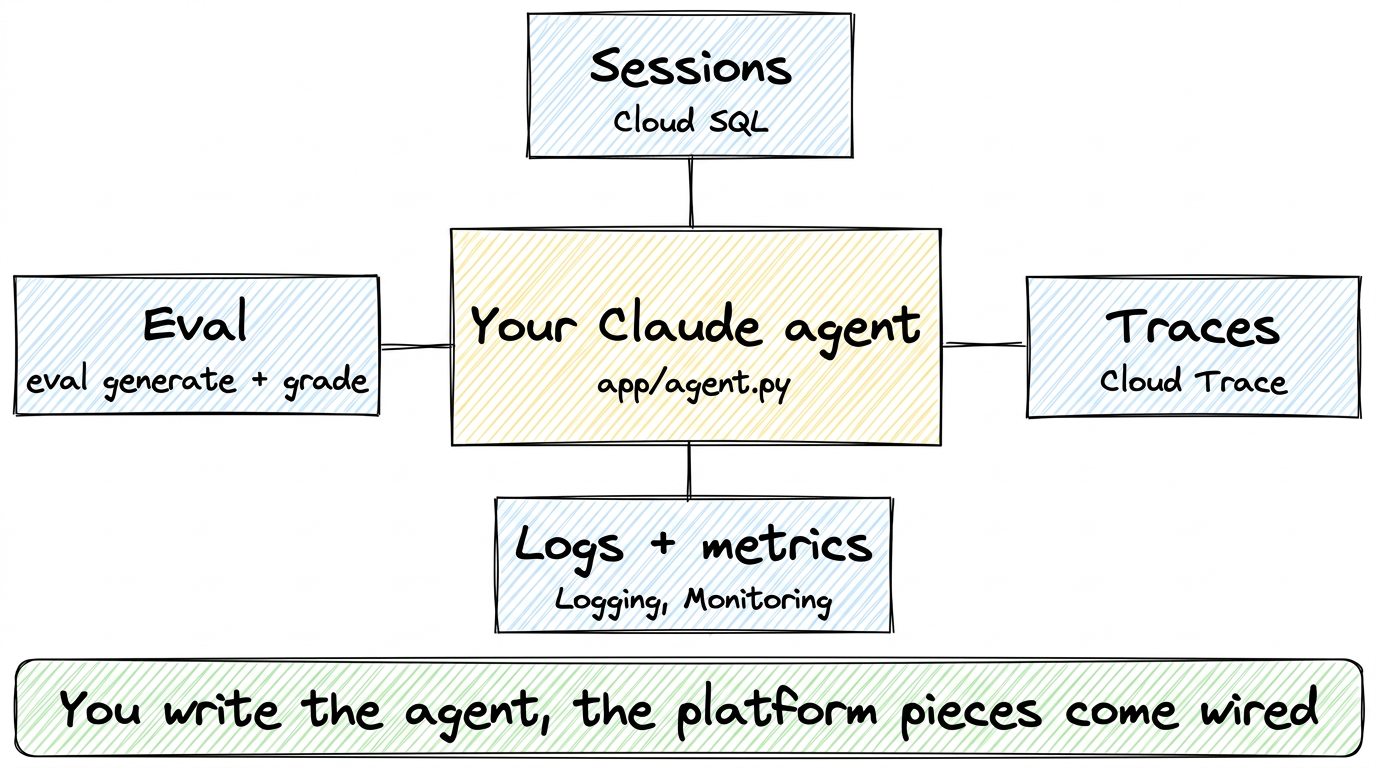
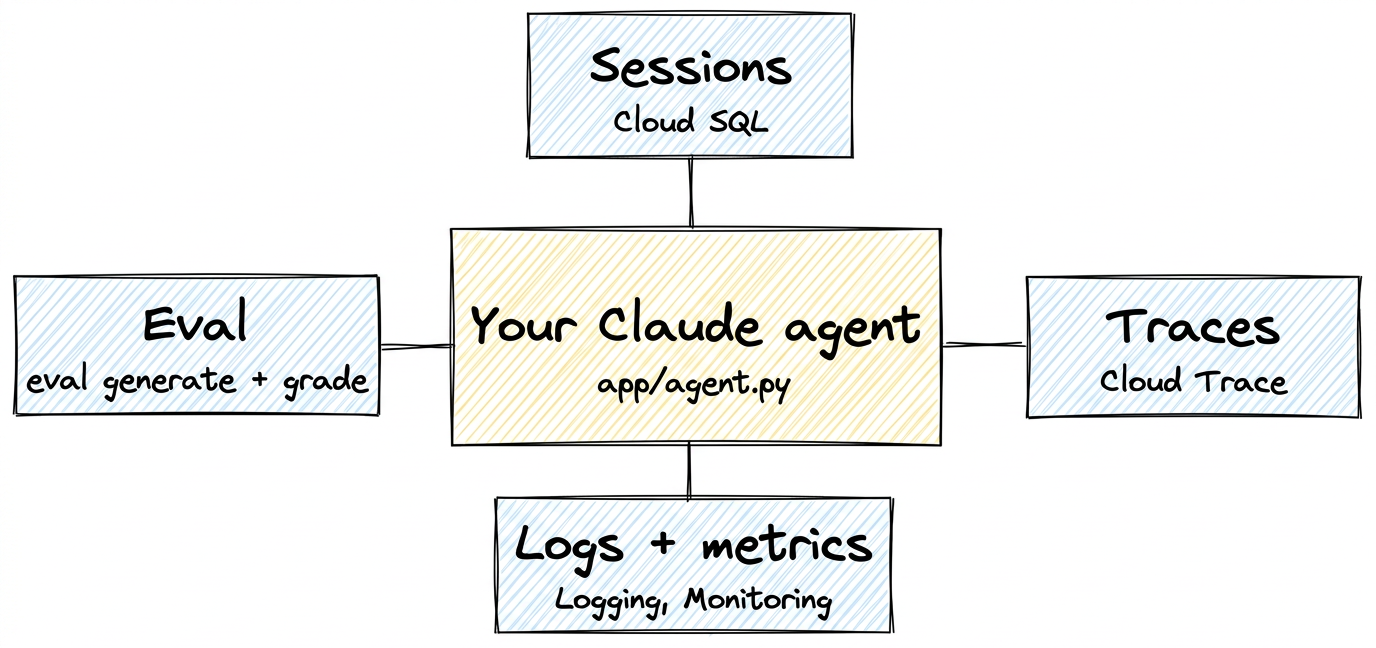
Add post: Take a Claude Agent SDK agent from install to deploy with Agents CLI

Changed region(s): [[0.0, 0.2778, 1.0, 1.0], [0.375, 0.0, 0.625, 0.2469]]

diff --git a/src/content/blog/2026-11-09-claude-agent-sdk/index.md b/src/content/blog/2026-11-09-claude-agent-sdk/index.md
@@ -10,14 +10,14 @@ sources:
 topics:
   - agents-cli v1.13.0 claude agent sdk extension
 hero: ./images/install-to-deploy.png
-hero_alt: "A hand-drawn row of boxes, Install (uvx google-agents-cli setup), Create (Claude template), Run (Claude on Gemini platform), Eval (same eval commands) and Deploy (Cloud Run, A2A), above a banner that reads 'Same commands as ADK, from install to deploy'."
+hero_alt: "A hand-drawn row of boxes, Install (uvx google-agents-cli setup), Create (Claude template), Run (Claude on Gemini platform), Eval (same eval commands) and Deploy (Cloud Run, A2A)."
 ---
 
 A Claude Agent SDK agent is a few lines of Python. Running it for real users takes more than the agent: somewhere to store each conversation so it isn't lost when the server restarts, traces that show what the agent did at each step when something goes wrong, evals (tests for agent answers) to run before each change, and a secure deploy. That's usually the part teams build by hand.
 
 [Agents CLI](https://github.com/google/agents-cli) already handles these for agents built on the Agent Development Kit (ADK). Since v1.12.0, a first-party extension does the same for Claude Agent SDK agents: you keep writing a `ClaudeAgentOptions`, and you get the same create, run, eval, and deploy commands as an ADK agent. We took one agent from install to a validated deploy on v1.13.0.
 
-![The Claude agent in the middle, connected to Sessions (Cloud SQL), Traces (Cloud Trace), Logs and metrics (Logging, Monitoring) and Eval (eval generate and grade), above a banner that reads "You write the agent, the platform pieces come wired".](./images/built-in.png)
+![The Claude agent in the middle, connected to Sessions (Cloud SQL), Traces (Cloud Trace), Logs and metrics (Logging, Monitoring) and Eval (eval generate and grade).](./images/built-in.png)
 
 Figure 1. You write `app/agent.py`, and the template wires in sessions, traces, logs, metrics, and eval.
 
@@ -29,17 +29,25 @@ One command installs Agents CLI and its skills for your coding agent:
 uvx google-agents-cli setup
 ```
 
-Then create a project from the Claude template, with Cloud Run as the target and Cloud SQL for sessions, and send it a prompt. `run` calls Claude in process through the SDK:
+Then create a project from the Claude template, with Cloud Run as the target and Cloud SQL for sessions, and send it a prompt. `run` calls Claude in process through the SDK, and the reply ends with a session ID you can resume:
 
-```bash
-agents-cli create claude-agent --agent google/agents-cli/extensions/claude/template@v1.13.0 -d cloud_run --session-type cloud_sql -y
-cd claude-agent && agents-cli install
-agents-cli run "what's the weather in San Francisco?"
+```console title="Create and run a Claude Agent SDK project" {10,14}
+$ agents-cli create claude-agent \
+    --agent google/agents-cli/extensions/claude/template@v1.13.0 \
+    -d cloud_run --session-type cloud_sql -y
+...
+✅ Success! Your agent project is ready.
+...
+$ cd claude-agent && agents-cli install
+...
+$ agents-cli run "what's the weather in San Francisco?"
+running 'run' via extension 'claude' (project scope)
+...
+The weather in San Francisco is currently **60 degrees and foggy**. Typical San Francisco weather! You might want to bring a jacket if you're heading outside.
+
+Session: 84a0699d5de54c748333b24bf00b3b14
+  Resume with: agents-cli run "<message>" --session-id 84a0699d5de54c748333b24bf00b3b14
 ```
-
-![agents-cli run answers a San Francisco weather question through the claude extension and prints a session ID with the command to resume it.](./captures/create-run.png)
-
-Figure 2. The Claude extension serves `run`, and the reply ends with a session ID you can resume.
 
 The project's `app/agent.py` is plain Claude Agent SDK code: a `@tool` for the weather, an in-process Model Context Protocol (MCP) server that exposes the tool to Claude, and options that switch off Claude Code's built-in tools (such as running shell commands) so the agent can only call what you allow.
 
@@ -58,32 +66,53 @@ The model has to be enabled in Model Garden, the Google Cloud page where you tur
 
 ## Step 2: Evaluate it like any other agent
 
-An eval has two steps. `eval generate` runs the agent on a set of test prompts and saves its answers, and `eval grade` has a model score those answers. The extension replaces only the first step and saves the answers in the same format ADK agents use, so `eval grade` works unchanged:
+An eval has two steps. `eval generate` runs the agent on a set of test prompts and saves its answers, and `eval grade` has a model score those answers. The extension replaces only the first step and saves the answers in the same format ADK agents use, so `eval grade` works unchanged. Both test cases, `greeting` and `weather_lookup`, scored 5 out of 5:
 
-```bash
-agents-cli eval generate --dataset tests/eval/datasets/basic-dataset.json -o tests/eval/output/
-agents-cli eval grade --traces tests/eval/output/<dataset>.json --config tests/eval/eval_config.yaml
+```console title="Generate and grade an eval" {4,16,19}
+$ agents-cli eval generate \
+    --dataset tests/eval/datasets/basic-dataset.json \
+    -o tests/eval/output/
+running 'eval generate' via extension 'claude' (project scope)
+[claude-generate] wrote tests/eval/output/eval_dataset_20261109_110946.json
+$ agents-cli eval grade \
+    --traces tests/eval/output/eval_dataset_20261109_110946.json \
+    --config tests/eval/eval_config.yaml
+...
+Evaluation Summary
+
+custom_response_quality:
+  num_cases_total: 2
+  num_cases_valid: 2
+  num_cases_error: 0
+  mean_score: 5.0000
+  stdev_score: 0.0000
+
+RESULT: PASS (no thresholds set; add 'thresholds' to the eval config or pass --fail-under to gate on scores)
 ```
-
-Here `<dataset>` is the name of the file `eval generate` prints.
-
-![agents-cli eval generate, then eval grade on 2 cases: custom_response_quality mean_score 5.0000, and RESULT: PASS with a note that no thresholds are set.](./captures/eval.png)
-
-Figure 3. `greeting` and `weather_lookup` both scored 5 out of 5.
 
 The template leaves `thresholds:` commented out in `tests/eval/eval_config.yaml`, since only you know your bar. Once you set it, `eval grade` and `eval run` exit 1 when a score falls below it ([v1.13.0](https://github.com/google/agents-cli/blob/main/RELEASE_NOTES.md)), so the same command can gate CI.
 
 ## Step 3: See what production adds
 
-`agents-cli infra single-project` uses Terraform, a tool that describes cloud resources as code, to plan everything the agent needs in your project: the Cloud Run service, the database for sessions, and the logging and tracing setup. Without `--apply`, it only prints the plan:
+`agents-cli infra single-project` uses Terraform, a tool that describes cloud resources as code, to plan everything the agent needs in your project: the Cloud Run service, the database for sessions, and the logging and tracing setup. Without `--apply`, it only prints the plan, 42 resources in all:
 
-```bash
-agents-cli infra single-project --project my-project
+```console title="Plan the production infrastructure" {7,13,15}
+$ agents-cli infra single-project --project my-project
+...
+  # google_cloud_run_v2_service.app will be created
+...
+  # google_logging_project_sink.genai_logs_to_bq will be created
+...
+  # google_project_iam_member.agent_identity_roles["roles/cloudtrace.agent"] will be created
+...
+  # google_project_iam_member.agent_identity_roles["roles/logging.logWriter"] will be created
+...
+  # google_project_iam_member.agent_identity_roles["roles/monitoring.metricWriter"] will be created
+...
+  # google_sql_database_instance.session_db will be created
+...
+Plan: 42 to add, 0 to change, 0 to destroy.
 ```
-
-![agents-cli infra single-project plan, filtered: a Cloud Run service, a log sink to BigQuery, Agent Identity roles for Cloud Trace, Logging and Monitoring, and a Cloud SQL instance for sessions; Plan: 42 to add.](./captures/infra-plan.png)
-
-Figure 4. One plan, 42 resources. We kept the lines for sessions, traces, logs, and metrics.
 
 Apply it once before the first deploy. That creates the Cloud SQL instance, connects the Cloud Run service to it, and gives the agent's identity the Cloud Trace role. We didn't apply it for this post:
 
@@ -102,13 +131,17 @@ Think of the template as a chassis: you bring the engine, and the wiring is alre
 
 `agents-cli deploy` builds your code and deploys it to Cloud Run with `gcloud beta run deploy --source .`. With `--dry-run`, it first checks that your project has the right APIs turned on and that you have the permissions to deploy, without changing anything:
 
-```bash
-agents-cli deploy --dry-run --project my-project
+```console title="Validate the deploy" {9}
+$ agents-cli deploy --dry-run --project my-project
+...
+🔎 Validating the deployment (no resources are changed)...
+  ...
+  ✅ APIs enabled: run.googleapis.com, artifactregistry.googleapis.com, cloudbuild.googleapis.com
+  ✅ Target service: creates a new service named 'claude-agent'
+  ✅ IAM permissions: all 4 permissions granted
+  ...
+  Would run: gcloud beta run deploy claude-agent --project my-project --region us-east1 --source . --memory 4Gi --cpu 1 --min-instances 0 --max-instances 10 --concurrency 8 --no-allow-unauthenticated --no-cpu-throttling --functional-type agent --identity-type agent-identity --update-env-vars '...' --update-labels '...'
 ```
-
-![agents-cli deploy --dry-run: APIs enabled, a new service named claude-agent, IAM permissions granted, and the gcloud beta run deploy command it would run, with --no-allow-unauthenticated and --identity-type agent-identity.](./captures/deploy-dry-run.png)
-
-Figure 5. The dry run validates the project and prints the exact deploy command.
 
 `--no-allow-unauthenticated` keeps the service private, so only callers with access can reach it. `--identity-type agent-identity` gives the agent its own identity in Google Cloud, with only the permissions `deploy` grants it, so it doesn't borrow your account or a shared one. That is the default for new projects since v1.13.0.
 
